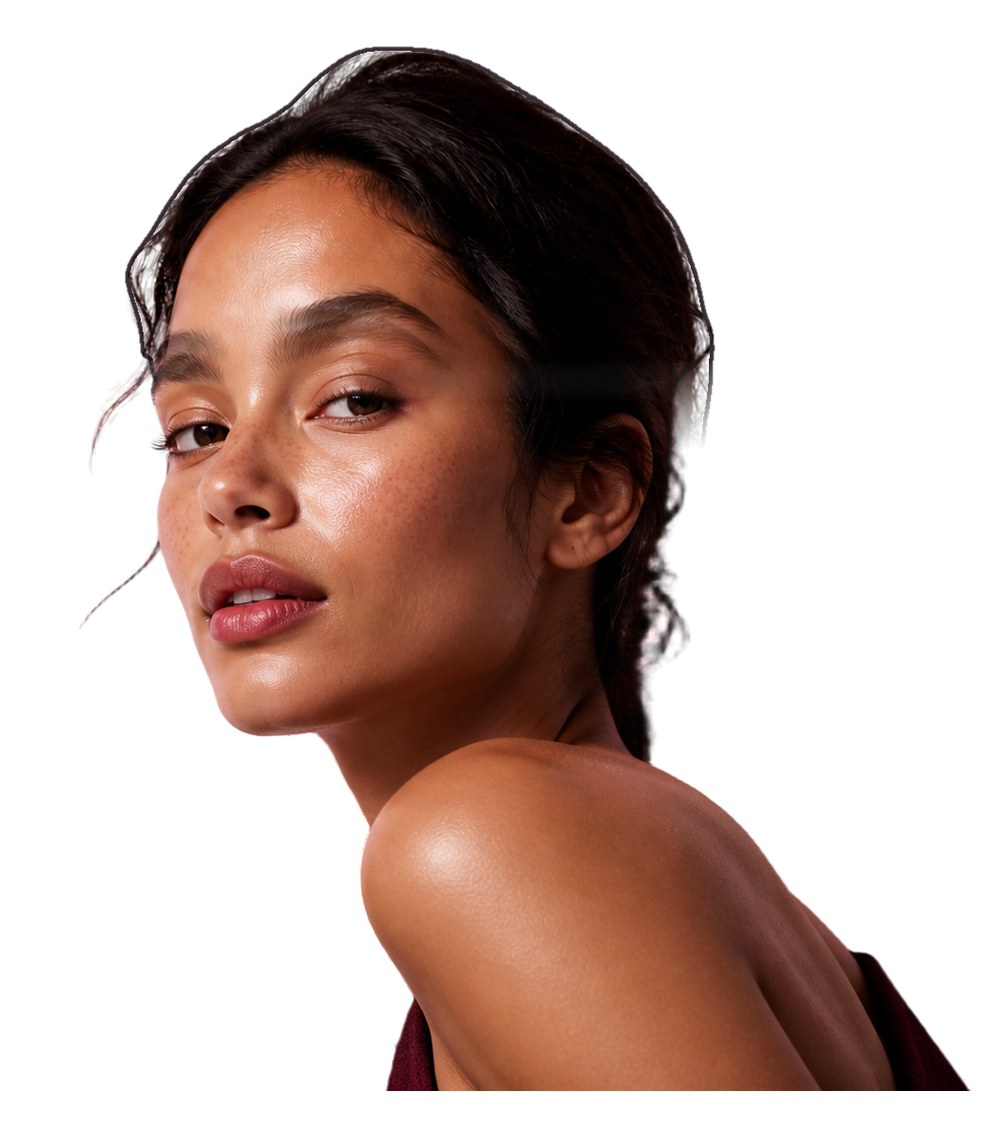
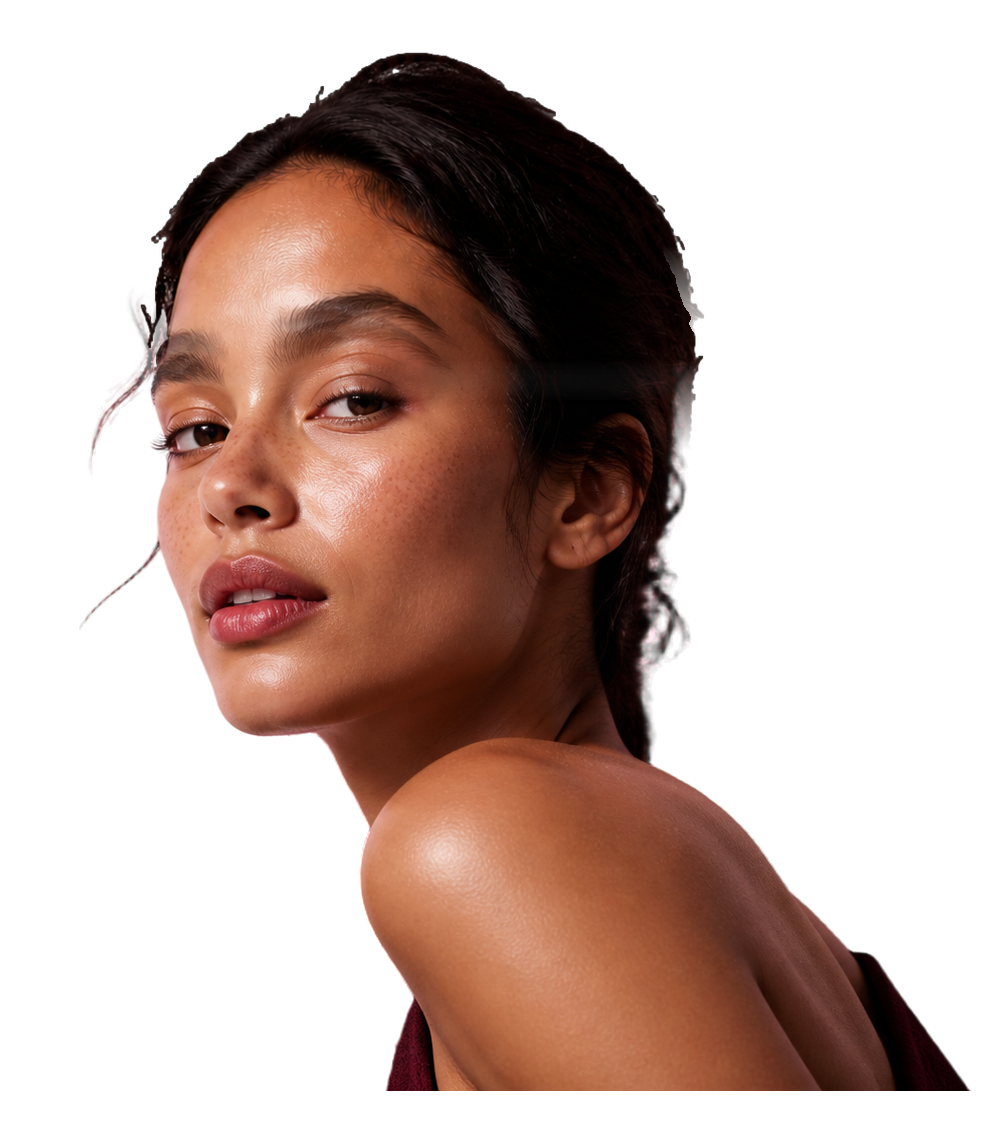
fix(hero): refine transparent hair edges

diff --git a/src/components/landing/landing-page.tsx b/src/components/landing/landing-page.tsx
@@ -172,7 +172,7 @@ export function LandingPage() {
           </div>
           <div className="hero-model-layer absolute" aria-hidden="true">
             <Image
-              src="/images/hero-model-hd-v13.png?v=3"
+              src="/images/hero-model-hd-v13.png?v=4"
               alt=""
               fill
               priority

diff --git a/scripts/build-hero-model-v13.py b/scripts/build-hero-model-v13.py
@@ -85,22 +85,34 @@ def main() -> None:
         raw_alpha = np.asarray(Image.open(GENERATED_CUTOUT).convert("RGBA"))[:, :, 3]
         raw_alpha = keep_largest_component(raw_alpha)
         core = raw_alpha > 205
+        source_work = generated_rgb.astype(np.float32)
+        source_value = source_work.mean(axis=2)
+        source_chroma = source_work.max(axis=2) - source_work.min(axis=2)
+        source_edge_distance = ndi.distance_transform_edt(core)
+        matte_residue = (
+            core
+            & (source_value > 65)
+            & (source_chroma < 50)
+            & (source_edge_distance < 34)
+        )
+        core &= ~matte_residue
+        # The AI outpaint includes fine flyaways and a few checkerboard-colored
+        # islands near the crown. Close tiny gaps and discard one-pixel residue
+        # so the silhouette stays clean on white and pale-pink backgrounds.
+        core = ndi.binary_closing(core, structure=np.ones((3, 3), dtype=bool))
+        core = ndi.binary_opening(core, structure=np.ones((3, 3), dtype=bool))
+        core = keep_largest_component(core.astype(np.uint8) * 255) > 0
         generated_alpha = np.clip(
             ndi.gaussian_filter(core.astype(np.float32), sigma=0.72) * 255.0,
             0,
             255,
         ).astype(np.uint8)
+        generated_alpha[generated_alpha < 58] = 0
         _, nearest_core = ndi.distance_transform_edt(~core, return_indices=True)
         generated_clean = generated_rgb.copy()
         fringe = (~core) & (generated_alpha > 0)
         nearest_color = generated_rgb[nearest_core[0], nearest_core[1]]
         generated_clean[fringe] = nearest_color[fringe]
-        edge_distance = ndi.distance_transform_edt(core)
-        edge_zone = (generated_alpha > 0) & (edge_distance < 4.5)
-        generated_clean[edge_zone] = np.minimum(
-            generated_clean[edge_zone],
-            np.array([58, 44, 50], dtype=np.uint8),
-        )
     else:
         generated_alpha = checker_alpha(generated_rgb)
         generated_clean = decontaminate(generated_rgb, generated_alpha)
@@ -145,6 +157,10 @@ def main() -> None:
     original_canvas = Image.new("RGBA", canvas_size, (0, 0, 0, 0))
     original_canvas.alpha_composite(original, (-original_crop_x, original_shift_y))
     original_data = np.asarray(original_canvas).copy()
+    original_support = ndi.binary_dilation(
+        original_data[:, :, 3] > 8,
+        iterations=12,
+    )
     top_blend = np.clip((y - 285.0) / 115.0, 0.0, 1.0)
     original_data[:, :, 3] = np.clip(
         original_data[:, :, 3].astype(np.float32) * top_blend,
@@ -152,6 +168,22 @@ def main() -> None:
         255,
     ).astype(np.uint8)
     original_canvas = Image.fromarray(original_data, "RGBA")
+
+    # Below the completed crown, the generated layer may only overlap the
+    # original subject silhouette. This prevents a secondary outline from
+    # appearing beside the hair while keeping the new top fully visible.
+    crown_data = np.asarray(crown).copy()
+    support_mix = np.clip((y - 245.0) / 105.0, 0.0, 1.0)
+    support_alpha = (
+        (1.0 - support_mix)
+        + (support_mix * original_support.astype(np.float32))
+    )
+    crown_data[:, :, 3] = np.clip(
+        crown_data[:, :, 3].astype(np.float32) * support_alpha,
+        0,
+        255,
+    ).astype(np.uint8)
+    crown = Image.fromarray(crown_data, "RGBA")
 
     master = Image.alpha_composite(crown, original_canvas)
     master.save(MASTER, optimize=True)
